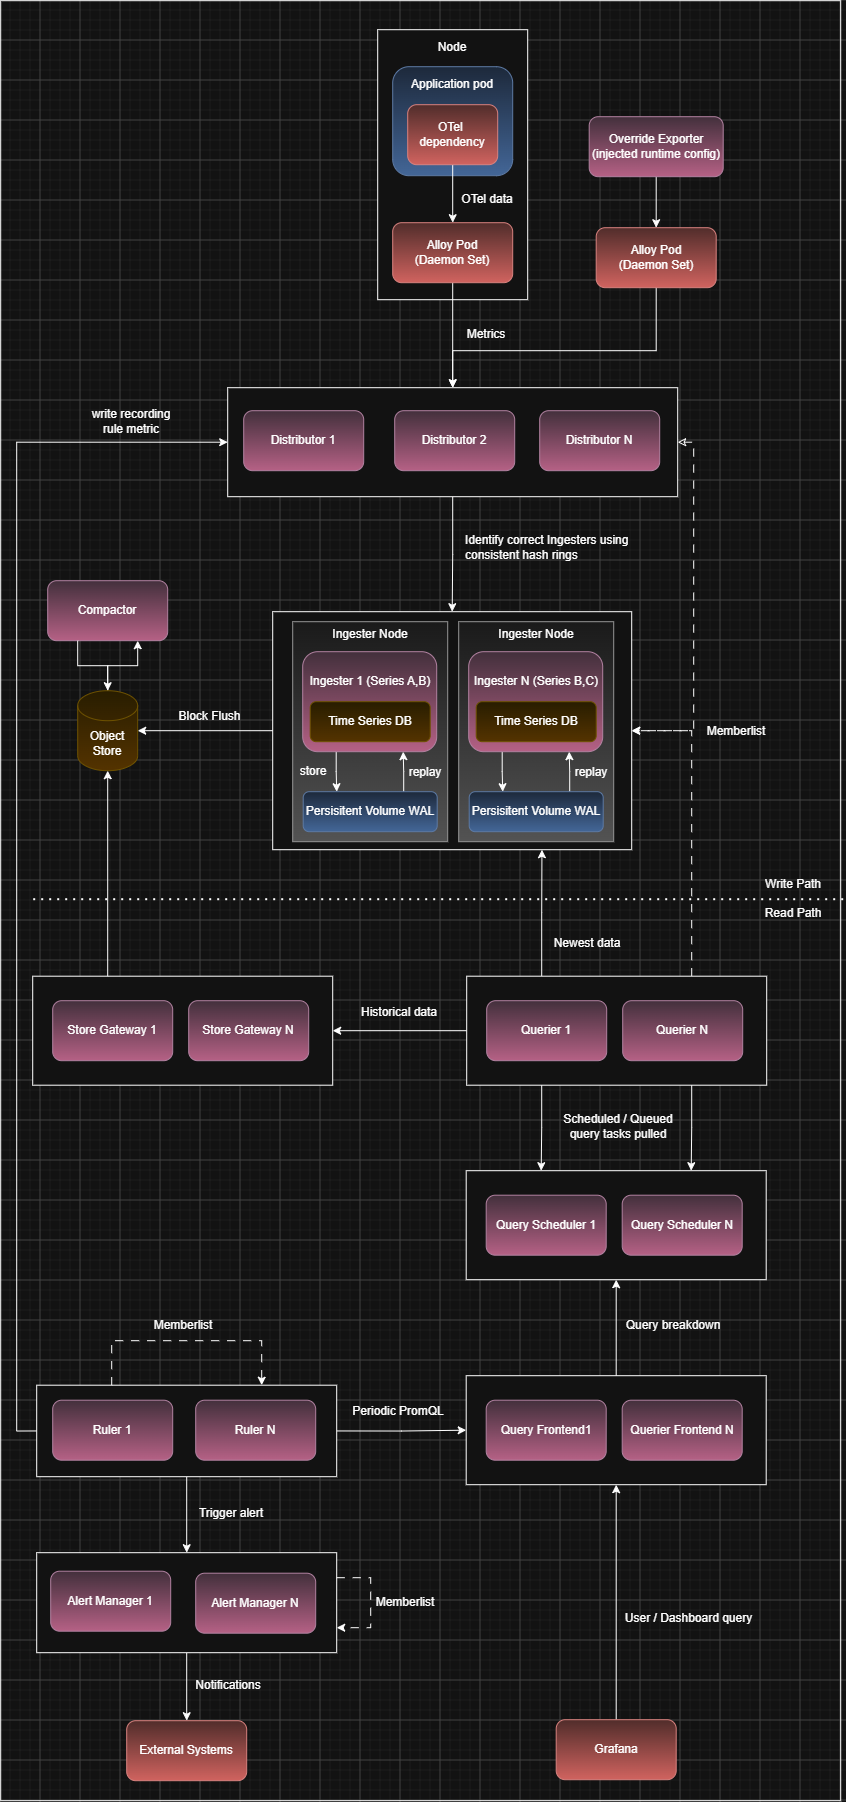
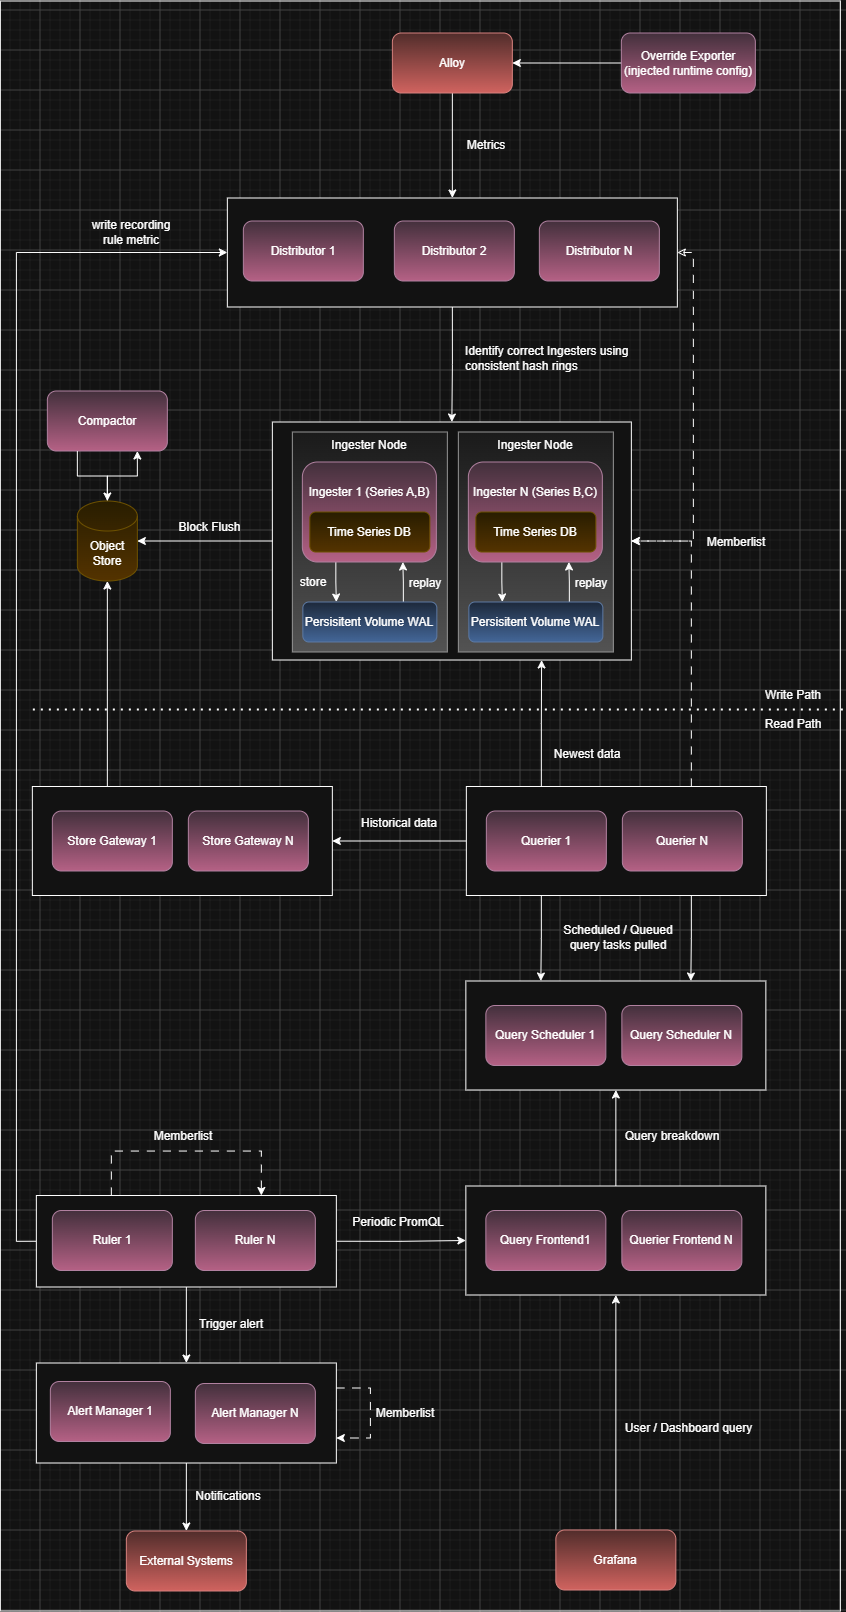
refactor: alloy arch covered

diff --git a/docs/alloy.md b/docs/alloy.md
@@ -11,6 +11,37 @@
 - We will be using the `grafana/k8s-monitoring` chart
   - this is a meta-chart that uses a Kubernetes Operator for Alloy to deploy 5 specialized Alloy collectors
 
+## Alloy Architecture
+
+- The Alloy deployment via `k8s-monitoring` happens in three distinct phases
+  - `management layer` - Alloy operator
+    - the Alloy operator manages the lifecycle of kubernetes workloads in the collector layer
+  - `collector layer` - Kubernetes workloads and Alloy pods
+    - The kubernetes workloads actually creates and maintains Alloy pods
+    - these workloads can be run in three different ways
+      - `Deployment` - runs a set of interchangeable Alloy pods
+      - `StatefulSet` - runs Alloy pods with stable identities (useful when multiple instances of Alloy must coordinate work distribution via clustering)
+        - if we specify preset as `statefulsets` then it will create a statefulset with as many replicas as specified
+      - `DaemonSet` - runs Alloy pods on each node (useful for node-level collection)
+        - the `kepler` and `node-exporter` configurations create Daemon sets
+  - `execution layer` - alloy processes and their component graphs
+    - The alloy pods in the collector layer run the alloy process inside it
+    - The process has different component graphs in it for each kind of telemetry
+      - `prometheus.scrape` (receive metrics) -> `prometheus.relabel` (modify/filter metrics) -> `prometheus.remote_write` (write metrics to Mimir) for metrics
+      - `loki.source.*` (collect logs) -> `loki.process` (process logs) -> `loki.write` (write logs to Loki) for logs
+      - `otelcol.receiver.*` (receive traces) -> `otelcol.processor.*` (process traces) -> `otelcol.exporter.*` (send traces to Tempo) for traces
+      - `pyroscope.scrape` (receive profiles) -> `pyroscope.process` (process profiles) -> `pyroscope.write` (write profiles to pyroscope) for profiles
+    - These component graphs are configured to run inside the Alloy process by the configuration we do on the chart
+    - Alloy then manages these component graphs on its own
+
+## Alloy Telemetry collection
+
+- Applications would have the OpenTelemetry dependency that pushes telemetry data to Alloy by specifying the Alloy endpoint on the app (push-based)
+  - When Alloy receives the data, it detects what kind of data is and forwards it to the appropriate component graph to handle how to push it to the correct backend
+- Mimir/Loki/Tempo/Pyroscope expose a /metrics endpoint that is discovered by Alloy from which metrics data is collected (pull-based)
+  - we are not going to care about logs/traces/profiles from observability components as those are not very important for us
+  - metrics could be important for us to decide how to configure these components so that we can use resources correctly
+
 ## Alloy Metrics Setup
 
 - We will want to collect cluster metrics and pod metrics primarily and send them to Mimir

diff --git a/docs/observability.md b/docs/observability.md
@@ -12,6 +12,7 @@ Our Kubernetes Observability Stack will consist of the following:
 - it has dashboards which visualizes system using graphs and charts
 - Allows to click on a spike on a graph and instantly see the matching logs and trace the error path
 - Evaluates data from all sources and can send alerts
+- `docs/grafana.md` talks about specific details on Grafana in the observability stack and its installation
 
 ### Loki (Log Aggregation)
 
@@ -32,13 +33,22 @@ Our Kubernetes Observability Stack will consist of the following:
 - Both speak the same query language to query metrics
 - Use only Prometheus if a single Prometheus server is able to continue collecting metrics across the cluster without crashing
 - If it starts crashing, we use Mimir which horizontally scales Prometheus functionality
+- `docs/mimir.md` talks about specific details on Mimir in the observability stack and its installation
 
-### OpenTelemetry (Data Collector)
+### Pyroscope (Performance Profiling)
+
+- Pyroscope is the storage and query backend for performance profiles
+- Alloy collects profiles and forwards them to Pyroscope
+- Grafana can then query Pyroscope to visualize them
+- Performance profiles provide resource observability at a code-line-level (CPU at a particular line of a particular function)
+
+### OpenTelemetry & Alloy (Data Collector)
 
 - OTel acts as a single dependency that can collects logs, metrics and traces from an app and forward them to a separately deployed entity called Collector
-- Then the Collector routes the logs to Loki, metrics to Prometheus or Mimir, tracing data to Tempo
+- Then the Collector routes the logs to Loki, metrics to Prometheus or Mimir, tracing data to Tempo, profile data to Pyroscope
 - Collectors can be OTel Collector or Grafana Alloy
 - Grafana Alloy is an advanced distbution of OTel Collector that allows more features than OTel Collector
+- `docs/alloy.md` talks about specific details on Alloy in the observability stack and its installation
 
 ---
 
@@ -46,7 +56,6 @@ Our Kubernetes Observability Stack will consist of the following:
 
 - `kubectl create ns observability` to create a new namespace to deploy the LGTM stack components (start from `helm-deployments/observability`)
 - To add the charts, lets add their corresponding repositories first:
-  - `helm repo add grafana https://grafana.github.io/helm-charts` has Mimir and Alloy
+  - `helm repo add grafana https://grafana.github.io/helm-charts` has Mimir, Pyroscope and Alloy
   - `helm repo add grafana-community https://grafana-community.github.io/helm-charts` has Loki, Tempo and Grafana
   - `helm repo update` to sync the latest version to local
-- Now continue from `mimir.md` for Mimir installation

diff --git a/readme.md b/readme.md
@@ -10,9 +10,6 @@ This section includes the glossary of files in this repository in the order:
 - `docs/paketo.md`: Details about Paketo buildpacks
 - `docs/helm.md`: Details on Helm charts
 - `docs/observability.md`: Details on how to setup Observability stack
-  - `docs/mimir.md` talks about specific details on Mimir in the observability stack
-  - `docs/alloy.md` talks about specific details on Alloy in the observability stack
-  - `docs/grafana.md` talks about specific details on Grafana in the observability stack
 
 Other directories of importance apart from `docs` are:
 

diff --git a/docs/k8s-roadmap.md b/docs/k8s-roadmap.md
@@ -7,7 +7,10 @@
 5. Start using helm for all this [DONE]
 6. Setup observability stack with Open Telemetry, Loki, Tempo, Grafana and Prometheus [WIP]
 7. Setup service mesh with Istio
-8. Setup GitOps stack with Argo
+8. Setup GitOps stack with Argo and Kargo
 9. Setup secret management
 10. Other Kubernetes resource types
-11. Kubernetes operators
+11. Horizontal and Vertical scaling
+12. KEDA and Karpenter
+13. Serverless with Knative or OpenFaaS
+14. Kubernetes operators
